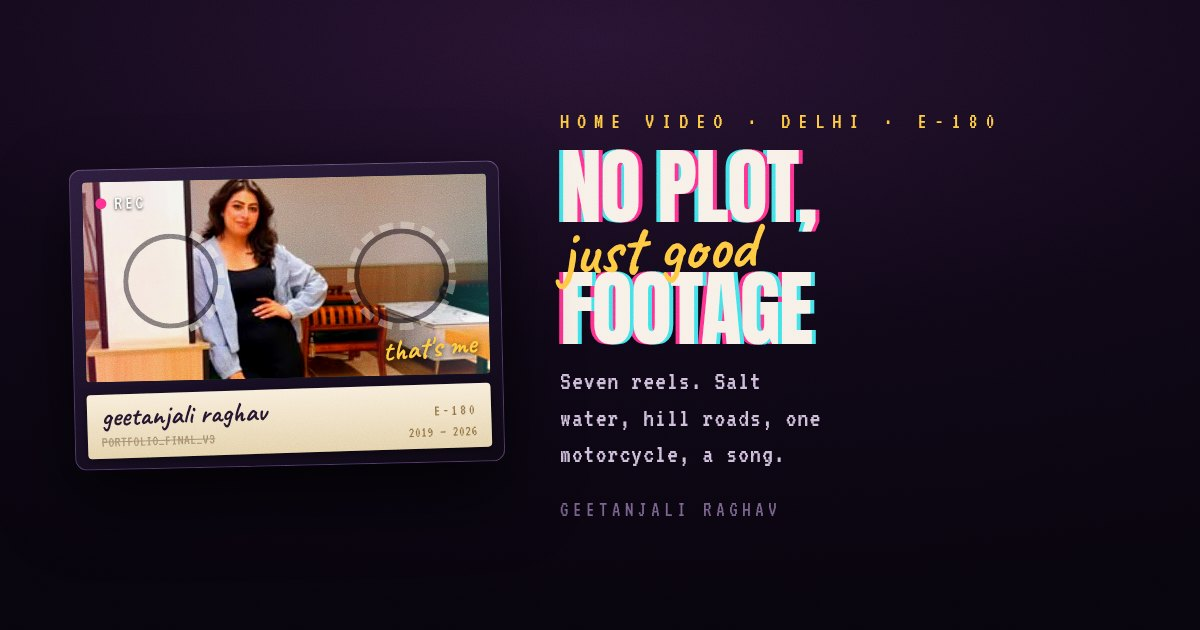
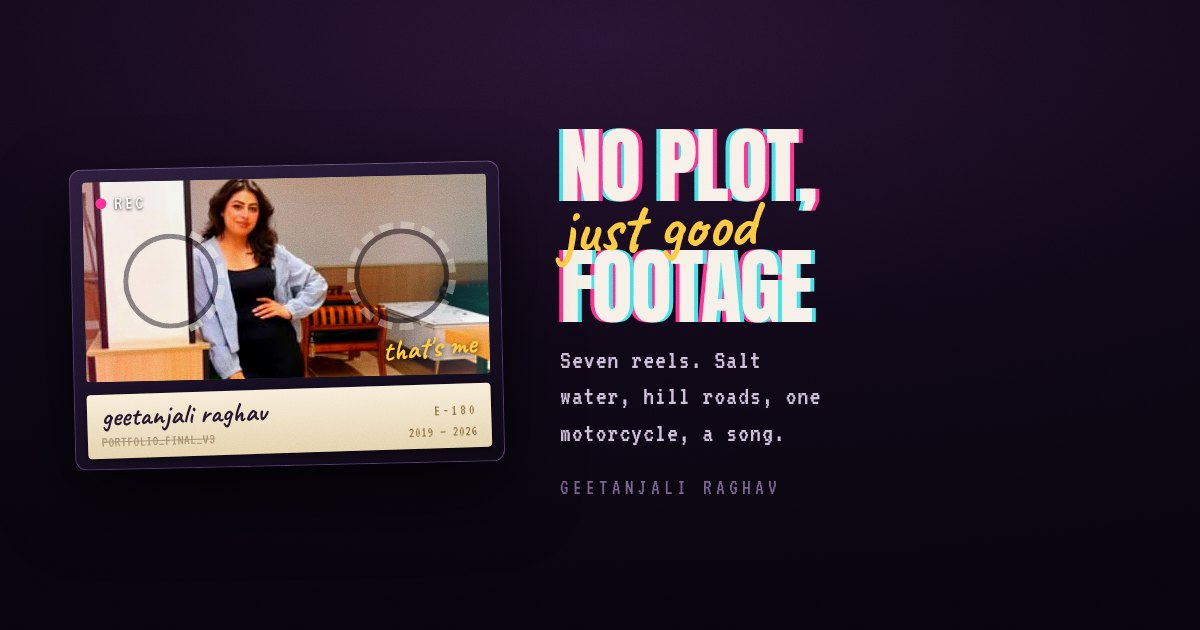
Give the scroll back to the tape, and drop the title card's top line
Reverts 2e9534e. The strip is the scroll container again at every width:
`.tape` is one viewport tall with `overflow: hidden`, `.tape__track` holds
the eleven screens' worth of overflow, and the document does not scroll.

That commit handed the scrolling to the document so Safari and Chrome would
collapse their toolbars and give the tape another 60-110px. Its own message
said the payoff could not be checked here — "that needs a real phone" — and
on a real phone the trade came out the other way. So the letterbox is back,
and it is now written down as a decision rather than left to look like an
oversight: CLAUDE.md and README both name it, point at 2e9534e for the
argument, and ask that it not be re-applied without asking.

Two things carried over rather than reverted with it. The measured height
stays: `.tape` still takes `visualViewport.height` via `--screen-h`, because
that fixes a different problem — dvh disagreeing with the visible area on
iOS — and is independent of who scrolls. And the screens go back to plain
`height: 100%`, so the height is decided in exactly one place; eleven
screens each measuring themselves is eleven chances to disagree with the box
around them.

The overlays stay `position: fixed`. Now that the tape is exactly one
viewport tall that is the same rectangle as absolute-within-it, and it still
says the thing that matters: they sit outside the scroller. Their comments
claimed the tape was eleven screens tall, which stops being true here.
[…]

Changed region(s): [[0.4625, 0.181, 0.8325, 0.8143]]

diff --git a/src/styles/tape.css b/src/styles/tape.css
@@ -56,72 +56,83 @@ html[data-osd='off'] {
 }
 
 /*
- * ON A PHONE THE DOCUMENT IS THE SCROLLER. This is not an implementation
- * detail — it is the only way to get an edge-to-edge tape in a browser tab.
+ * THE TAPE IS ONE VIEWPORT TALL AND THE STRIP SCROLLS INSIDE IT — at every
+ * width. The document itself never scrolls.
  *
- * Safari and Chrome collapse their own toolbars when *the page* scrolls. The
- * tape used to be a fixed 100dvh box with the strip scrolling inside it, which
- * meant the document never moved, so both browsers kept their full-size chrome
- * permanently and the tape sat in a letterbox between them. Handing the
- * scrolling to the document is what lets them get out of the way, and it
- * reclaims roughly 60–110px with nothing to install.
+ * This was tried the other way round and reverted. `2e9534e` handed the
+ * scrolling to the document on phones, because Safari and Chrome only collapse
+ * their own toolbars when *the page* moves, and that collapse is worth 60–110px.
+ * It works, but on a real device the cost outweighed it, so the tape went back
+ * to owning its own scroll.
  *
- * Above 900px it goes back to being a fixed viewport with the strip scrolling
- * sideways inside it, because there the tape is dragged rather than scrolled and
- * there is no browser chrome to reclaim.
+ * **The consequence is deliberate: on a phone both browsers keep their
+ * full-size toolbars, and the tape sits in a letterbox between them.** That is
+ * a chosen trade, not a bug to fix. Anything that reads "the tape should be
+ * edge to edge, why is there browser chrome" is describing this decision. The
+ * argument for the other side is in `2e9534e` if it is ever worth revisiting.
+ *
+ * `height` is the *measured* visible height rather than `100dvh`, which is a
+ * separate fix and independent of who scrolls: on iOS Safari with
+ * `viewport-fit=cover`, `dvh` and the genuinely visible area disagree, which
+ * showed up as a sliver of the neighbouring reel. `visualViewport.height` is by
+ * definition what the visitor can see, and the script writes it into
+ * `--screen-h`. `dvh` is the no-script fallback and close enough there, since
+ * nothing resizes. `svh` would leave a band of background if the toolbars ever
+ * did collapse and `lvh` would spill the next screen into view.
  */
-html {
-  scroll-snap-type: y mandatory;
-  /* Stops a flick at the top turning into pull-to-refresh. */
-  overscroll-behavior-y: contain;
-}
-
 .tape {
   position: relative;
   width: 100%;
+  height: 100vh;
+  height: 100dvh;
+  height: var(--screen-h, 100dvh);
+  overflow: hidden;
   background-color: var(--tape-black);
 }
 
 /* -------------------------------------------------------------- the strip */
 
 .tape__track {
+  position: absolute;
+  inset: 0;
+  z-index: 1;
   display: flex;
   flex-direction: column;
+  overflow-x: hidden;
+  overflow-y: auto;
+  /* Phone: one full-bleed reel at a time, swiped vertically. */
+  scroll-snap-type: y mandatory;
+  /* Keeps a flick inside the tape instead of bouncing the page behind it. */
+  overscroll-behavior: contain;
+  scrollbar-width: none;
+}
+
+.tape__track::-webkit-scrollbar {
+  display: none;
 }
 
 /*
- * Only a scrollable element needs to be focusable for the keyboard (WCAG
- * 2.1.1), and on a phone this one is not — the document is, and that is always
- * reachable. The outline is here for the wide layout, where the track does own
- * the scrolling.
+ * The track is a scrollable region at every width, so it has to be focusable to
+ * be usable from a keyboard (WCAG 2.1.1). With this, arrow keys and Page Up/Down
+ * move along the tape natively — no script involved. The handler in index.astro
+ * upgrades that to whole-screen jumps.
  */
 .tape__track:focus-visible {
   outline: 3px solid var(--focus);
   outline-offset: -3px;
 }
 
+/*
+ * One screen fills the track exactly. The height is decided once, on `.tape`
+ * above — deliberately not repeated here, because eleven screens each measuring
+ * themselves is eleven chances to disagree with the box holding them, which is
+ * precisely how a sliver of the next reel gets in.
+ */
 .screen {
   position: relative;
   flex: 0 0 auto;
   width: 100%;
-  /*
-   * `--screen-h` is the *measured* visible height, written by the script from
-   * `visualViewport.height`. It exists because the viewport units are not
-   * trustworthy enough here.
-   *
-   * dvh is the right idea — svh would size every screen to the viewport with the
-   * toolbars showing and leave a band of background once they collapse, lvh
-   * would spill the next screen into view while they are still up — but on iOS
-   * Safari with `viewport-fit=cover` dvh and the actually-visible area disagree,
-   * which showed up as a sliver of the previous reel above and the next one
-   * below. `visualViewport.height` is by definition what the visitor can see.
-   *
-   * The dvh fallback is what a browser with no script gets, and is close enough
-   * there because nothing resizes.
-   */
-  height: 100vh;
-  height: 100dvh;
-  height: var(--screen-h, 100dvh);
+  height: 100%;
   padding: var(--pad-screen);
   display: flex;
   flex-direction: column;
@@ -150,32 +161,13 @@ html {
  * alone cannot do at the ends of a scroller.
  */
 @media (min-width: 900px) {
-  /* The document goes back to being one screen tall and not snapping. */
-  html {
-    scroll-snap-type: none;
-  }
-
-  .tape {
-    height: 100vh;
-    height: 100dvh;
-    overflow: hidden;
-  }
-
+  /* Only the axis changes — the track is already the scroller. */
   .tape__track {
-    position: absolute;
-    inset: 0;
-    z-index: 1;
     flex-direction: row;
     overflow-x: auto;
     overflow-y: hidden;
     scroll-snap-type: x mandatory;
-    overscroll-behavior: contain;
-    scrollbar-width: none;
     cursor: grab;
-  }
-
-  .tape__track::-webkit-scrollbar {
-    display: none;
   }
 
   .tape__track::before,

diff --git a/src/data/tape.ts b/src/data/tape.ts
@@ -100,11 +100,14 @@ export function stepFor(steps: Step[], value: number): string {
 
 /* ----------------------------------------------------------- title card */
 
+/*
+ * There is deliberately no line above the cassette. It used to read
+ * "home video" on the left and "delhi · e-180" on the right — the first of
+ * which is the design tool's internal name for the file and means nothing to a
+ * visitor, which is the same reason it is kept out of `site.title`. Both halves
+ * went together; a lone catalogue number is not worth a row of its own.
+ */
 export const title = {
-  /** The strip above the cassette: gold on the left, mauve on the right. */
-  kicker: 'home video',
-  kickerRight: 'delhi · e-180',
-
   /**
    * Three lines, and the field names say which is which because they are not
    * interchangeable: the outer two are stencilled display type with a

diff --git a/scripts/og-template.html b/scripts/og-template.html
@@ -236,14 +236,6 @@
         gap: 20px;
       }
 
-      .kicker {
-        font-family: 'VT323', monospace;
-        font-size: 23px;
-        letter-spacing: 0.34em;
-        text-transform: uppercase;
-        color: #ffc53d;
-      }
-
       /*
        * Three lines, and the middle one is her handwriting rather than another
        * line of stencil — which is the change the second handoff made to the
@@ -342,7 +334,6 @@
       </div>
 
       <div class="words">
-        <p class="kicker">home video &middot; delhi &middot; e-180</p>
         <h1><b>No plot,</b><em>just good</em><b class="flip">footage</b></h1>
         <p class="intro">Seven reels. Salt water, hill roads, one motorcycle, a song.</p>
         <p class="name">Geetanjali Raghav</p>

diff --git a/src/styles/global.css b/src/styles/global.css
@@ -43,13 +43,14 @@
 }
 
 /*
- * `min-height`, not `height`. On a phone the document is the tape's scroller and
- * has to be free to grow to eleven screens tall; `height: 100%` would cap it at
- * one and the snapping would have nothing to scroll.
+ * `height`, not `min-height`, and that is what stops the document scrolling at
+ * all: it is capped at one screen, and the eleven screens' worth of overflow
+ * belongs to `.tape__track` instead. See the note at the top of tape.css — this
+ * was briefly the other way round.
  */
 html,
 body {
-  min-height: 100%;
+  height: 100%;
 }
 
 /*

diff --git a/README.md b/README.md
@@ -121,25 +121,39 @@ Both land on `<html>` as data attributes and become four numbers in
   keyboard input on its own, and the flick has real platform momentum. Script
   then adds what genuinely needs it — knowing which reel is in front, which is
   what the dimming, the progress rail and the timecode key off, plus the two
-  transport buttons and drag-to-scrub on a wide screen. With JavaScript off,
-  all eleven screens are still reachable by swipe, wheel, arrow key and the
-  play / resume / rewind links, which are real anchors.
-- **On a phone the *document* is that scroll container, deliberately.** Safari
-  and Chrome only collapse their own toolbars when the page scrolls. The tape
-  was a fixed `100dvh` box with the strip scrolling inside it, so the document
-  never moved and both browsers kept full-size chrome permanently — the tape sat
-  in a letterbox between them. Handing the scrolling to the document is what
-  lets them get out of the way, and it reclaims roughly 60–110px with nothing to
-  install. Above 900px it reverts to a fixed viewport with the strip scrolling
-  sideways inside it, because there the tape is dragged and there is no chrome
-  to reclaim.
+  transport buttons and drag-to-scrub on a wide screen.
 
-  Two things follow from that and must not be undone. The chrome and the wear
-  overlays are `position: fixed`, not absolute — on a phone the tape is eleven
-  screens tall, so absolute would pin them to the top of the strip and scroll
-  them away with the first reel. And `html, body` use `min-height`, not
-  `height`: `height: 100%` would cap the document at one screen and the snapping
-  would have nothing to scroll.
+  With JavaScript off, all eleven screens stay reachable. On a phone every route
+  works — swipe, wheel, arrow keys once the strip has focus, and the play /
+  resume / b-side / rewind links, which are real anchors. On a wide screen the
+  keyboard and a horizontal trackpad swipe work, but the anchors do not move it:
+  `scroll-snap-type: x mandatory` with centre alignment pulls the browser's own
+  fragment scroll back to the panel it started on. That is a scripted-only path
+  on desktop, and has been since the strip turned sideways — not a consequence of
+  who owns the scroll.
+- **The strip is the scroll container at every width, and the mobile letterbox
+  is the accepted price.** `.tape` is one viewport tall with `overflow: hidden`;
+  `.tape__track` holds the eleven screens' worth of overflow. Because the
+  document never scrolls, Safari and Chrome on a phone keep their full-size
+  toolbars and the tape sits letterboxed between them.
+
+  That was tried the other way. Handing the scrolling to the document does make
+  both browsers collapse their chrome and reclaims roughly 60–110px — see
+  `2e9534e` — but it was reverted after being looked at on a real device. The
+  trade is recorded rather than rediscovered, so if the letterbox looks like a
+  bug, read that commit before undoing this one.
+
+  Two things hold it together and must not be undone. `html, body` use
+  `height: 100%`, which is the cap that stops the document scrolling. And the
+  chrome, the wear and the cold open are `position: fixed` — they sit outside the
+  track, because anything positioned against it travels with the reels.
+
+- **The height is measured, not declared, and decided in one place.** `.tape`
+  takes `visualViewport.height` from the script via `--screen-h`, because on iOS
+  with `viewport-fit=cover` `100dvh` and the genuinely visible area disagree and
+  leave a sliver of the neighbouring reel showing. The screens inside are plain
+  `height: 100%`: eleven screens each sizing themselves is eleven chances to
+  disagree with the box around them.
 - **Above 900px it is a strip of film in a gate.** The second handoff narrowed
   the panel from `min(62vw, 720px)` to `min(44vw, 560px)` and added the furniture
   that makes the narrowing read: sprocket perforations along the top and bottom

diff --git a/CLAUDE.md b/CLAUDE.md
@@ -70,27 +70,42 @@ the re-snap is not firing.
 - `public/.nojekyll` must stay. Without it Pages runs Jekyll, Jekyll ignores
   `_astro/`, and the site deploys with no CSS and no fonts.
 
-## The scroll container is not where you would guess
+## The mobile letterbox is a decision, not a bug
 
-**On a phone the document scrolls; above 900px an inner element does.** That is
-load-bearing, not incidental: Safari and Chrome only collapse their own toolbars
-when *the page* scrolls, so a fixed-height tape with an inner scroller sits in a
-letterbox between full-size browser chrome forever. Three things follow, and
-undoing any of them breaks the layout in a way that is not obvious from the diff:
+**`.tape__track` is the scroller, at every width. The document never scrolls.**
+`.tape` is one viewport tall with `overflow: hidden`, and the eleven screens'
+worth of overflow lives inside it.
 
-- The chrome and the wear overlays are `position: fixed`. On a phone the tape is
-  eleven screens tall, so `absolute` pins them to the top of the strip and they
-  scroll away with the first reel.
-- `html, body` use `min-height`, not `height`. `height: 100%` caps the document
-  at one screen and the snapping has nothing to scroll.
-- The `IntersectionObserver` in `index.astro` uses `root: null`. Which element
-  scrolls changes with the breakpoint and a root cannot be changed after the
-  observer is built, so measuring against the viewport is the only thing correct
-  at both sizes.
+**The visible consequence: on a phone, Safari and Chrome keep their full-size
+toolbars, and the tape sits letterboxed between them.** Those browsers only
+collapse their chrome when *the page* scrolls, and this page does not. If you
+arrive at this repo thinking "the tape is supposed to reach the edge of the
+glass, why is there browser furniture top and bottom" — that is this, and it was
+chosen.
 
-Screens are sized in `dvh` on purpose. `svh` would leave a band of background
-once the toolbars collapse and `lvh` would spill the next screen into view while
-they are still up.
+It has been both ways. `2e9534e` handed the scrolling to the document to win
+those 60–110px back; it worked, and was reverted after being seen on a real
+device. **Do not re-apply it without asking.** The argument for the other side is
+in that commit message in full, so it can be re-read rather than re-derived.
+
+Three things hold the current arrangement together:
+
+- `html, body` use `height: 100%`, not `min-height`. That cap is what stops the
+  document scrolling at all.
+- The chrome, the wear and the cold open are `position: fixed` — outside the
+  track. Anything positioned against the track travels with the reels.
+- The `IntersectionObserver` in `index.astro` uses `root: null`. `.tape` clips
+  the track to exactly the viewport, so the two rectangles agree; and a root
+  cannot be changed after the observer is built, so it is better off assuming as
+  little as possible about who scrolls — that has now changed twice.
+
+**`--screen-h` is a separate fix and survives either arrangement.** `.tape` takes
+its height from `visualViewport.height`, measured by the script, because on iOS
+with `viewport-fit=cover` `100dvh` and the genuinely visible area disagree and
+leave a sliver of the neighbouring reel. The screens themselves are plain
+`height: 100%` — the height is decided in exactly one place, because eleven
+screens each measuring themselves is eleven chances to disagree with the box
+around them. `dvh` is the no-script fallback; `svh` and `lvh` are both wrong here.
 
 ## Three things that are easy to get wrong
 

diff --git a/CONTENT.md b/CONTENT.md
@@ -23,7 +23,7 @@ Every word on the site is in this file, in the order you meet it.
 | Section | What it holds |
 |---|---|
 | `look` | How worn the tape is: `grade`, `grain`, `osd`. See the table in [README.md](./README.md#the-three-switches) — `osd: false` hides a fair amount of writing, which is worth knowing before you edit it. |
-| `title` | The opening card: the two ends of the line above the cassette, the three-line heading, the intro sentence, and both lines written on the cassette's paper label. |
+| `title` | The opening card: the three-line heading, the intro sentence, and both lines written on the cassette's paper label. There is deliberately nothing above the cassette — see the note in the file. |
 | `salt`, `wheels`, `excuse`, `takes`, `cold`, `playback`, `sideA` | The seven reels, in order. One block each — they are seven different things, so they do not share a shape. |
 | `interval` | The framing around the day job, including the three-minute countdown. The jobs themselves come from `work.ts`. |
 | `qualityCheck` | The interval's b-side: the QA form, its six checks, and everything printed on it. |
